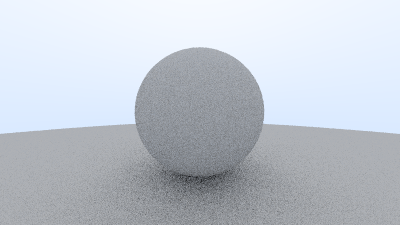
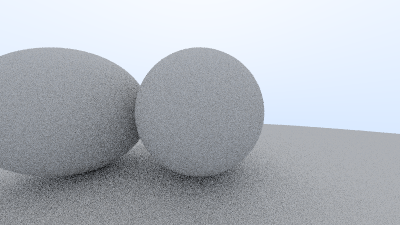
Change Ray -> ray

diff --git a/raytracer/src/main.rs b/raytracer/src/main.rs
@@ -12,7 +12,7 @@ use shape::*;
 use camera::*;
 use sample::*;
 
-pub fn ray_color(r:Ray, objects:&ShapeList<Sphere>, depth:u32) -> vec3 {
+pub fn ray_color(r:ray, objects:&ShapeList<Sphere>, depth:u32) -> vec3 {
     let mut i:hit = hit::default();
     let t_min = 0.001f64;
     let t_max = f64::MAX;
@@ -23,7 +23,7 @@ pub fn ray_color(r:Ray, objects:&ShapeList<Sphere>, depth:u32) -> vec3 {
 
     if objects.hit(&r, t_min, t_max, &mut i) { 
         let target:vec3 = i.pos + i.norm + random_unit_sphere().normalize();
-        return ray_color(Ray{o:i.pos, dir:target-i.pos}, objects, depth-1)*0.5;
+        return ray_color(ray{o:i.pos, dir:target-i.pos}, objects, depth-1)*0.5;
     }
 
     let unit_direction = r.dir.normalize();
@@ -38,7 +38,7 @@ pub fn write_color(pixel_color:vec3, sample_count:i64) -> vec3 {
     let g = (pixel_color.y * scale).sqrt();
     let b = (pixel_color.z * scale).sqrt();
 
-    return vec3((clamp(r, 0.0, 1.0)*256f64), (clamp(g, 0.0, 1.0)*256f64), (clamp(b, 0.0, 1.0)*256f64));
+    return vec3(clamp(r, 0.0, 1.0)*256f64, clamp(g, 0.0, 1.0)*256f64, clamp(b, 0.0, 1.0)*256f64);
 }
 
 
@@ -49,7 +49,7 @@ fn main() {
     let imgx = 400;
     let imgy = (imgx as f64/ASPECT) as u32;
     let sample_count = 16;
-    const max_depth:u32 = 50;
+    const MAX_DEPTH:u32 = 50;
 
     // Create a new ImgBuf with width: imgx and height: imgy
     let mut imgbuf = image::ImageBuffer::new(imgx, imgy);
@@ -57,6 +57,7 @@ fn main() {
     // World
     let mut world : ShapeList<Sphere> = ShapeList::new();
     world.push( Sphere{center:vec3(0f64, 0f64, -1f64), radius:0.5f64} );
+    world.push( Sphere{center:vec3(-1.0f64, 0f64, -1f64), radius:0.5f64} );
     world.push( Sphere{center:vec3(0f64, 100.5f64, -1f64), radius:100.0f64} );
 
     // Camera
@@ -69,8 +70,8 @@ fn main() {
             for i in 0..sample_count {
                 let u  = (x as f64 + random_f64())/(imgx-1) as f64;
                 let v  = (y as f64 + random_f64())/(imgy-1) as f64;        
-                let r : Ray = cam.get_ray(u, v);
-                pixel_color += ray_color(r, &mut world, max_depth);
+                let r : ray = cam.get_ray(u, v);
+                pixel_color += ray_color(r, &mut world, MAX_DEPTH);
             }
             let rgb = write_color(pixel_color, sample_count);
             let pixel = imgbuf.get_pixel_mut(x, y);

diff --git a/raytracer/src/shape.rs b/raytracer/src/shape.rs
@@ -1,11 +1,9 @@
 use rxmath::vector::*;
-//use rxmath::matrix::*;
-/////////////////////////
 use crate::intersect::*;
-/////////////////////////
-/// 
+use crate::sample::*;
+
 pub trait Shape {
-    fn intersect( &self, r:&Ray, t_min:f64, t_max:f64, i:&mut hit ) -> bool;
+    fn intersect( &self, r:&ray, t_min:f64, t_max:f64, i:&mut hit ) -> bool;
 }
 
 pub struct ShapeList<T: Shape>{
@@ -18,7 +16,7 @@ pub struct Sphere {
 }
 
 impl Shape for Sphere {
-    fn intersect( &self, r:&Ray, t_min:f64, t_max:f64, h:&mut hit ) -> bool {
+    fn intersect( &self, r:&ray, t_min:f64, t_max:f64, h:&mut hit ) -> bool {
         // the simplified version
         let oc:vec3 = r.o - self.center;
         let a = r.dir.length2();
@@ -54,7 +52,7 @@ impl<T: Shape> ShapeList<T> {
     pub fn push(&mut self, shape:T) {
         self.list.push(shape)
     }
-    pub fn hit(&self, r:&Ray, t_min:f64, t_max:f64, h:&mut hit) -> bool {
+    pub fn hit(&self, r:&ray, t_min:f64, t_max:f64, h:&mut hit) -> bool {
         let mut i = hit::default();
         let mut hit = false;
         let mut closest = t_max;
@@ -68,5 +66,50 @@ impl<T: Shape> ShapeList<T> {
             }
         }
         return hit;
+    }
+}
+
+/// material
+/// 
+
+pub trait material {
+    fn scatter( &self, r:&ray, h:&hit, attenuation:&mut vec3, scattered:&mut ray) -> bool;
+}
+
+pub struct lambertian {
+    albedo:vec3,
+}
+
+pub struct metal {
+    albedo:vec3,
+}
+
+impl material for lambertian{
+    fn scatter( &self, r:&ray, h:&hit, attenuation:&mut vec3, scattered:&mut ray) -> bool{
+        let mut scatter_direction = h.norm + random_unit_sphere();
+        let temp = ray{o:h.pos, dir:scatter_direction};
+
+        if scatter_direction.near_zero() {
+            scatter_direction = h.norm;
+        }
+
+        *scattered = temp;
+        *attenuation = self.albedo;
+        return true;
+    }
+}
+
+impl material for metal {
+    fn scatter( &self, r:&ray, h:&hit, attenuation:&mut vec3, scattered:&mut ray) -> bool{
+        let mut scatter_direction = h.norm + random_unit_sphere();
+        let temp = ray{o:h.pos, dir:scatter_direction};
+
+        if scatter_direction.near_zero() {
+            scatter_direction = h.norm;
+        }
+
+        *scattered = temp;
+        *attenuation = self.albedo;
+        return true;
     }
 }

diff --git a/raytracer/src/intersect.rs b/raytracer/src/intersect.rs
@@ -2,12 +2,12 @@ use rxmath::vector::*;
 //use rxmath::matrix::*;
 
 #[derive(Default, Copy, Clone)]
-pub struct Ray {
+pub struct ray {
     pub o : vec3,
     pub dir : vec3,
 }
 
-impl Ray {
+impl ray {
     pub fn at(self, t:f64) -> vec3 {
         return self.o + self.dir*t;
     } 
@@ -23,14 +23,14 @@ pub struct hit {
 }
 
 #[allow(dead_code)]
-impl Ray {
-    fn new(_o:vec3, _d:vec3) -> Ray {
-        Ray{ o:_o, dir:_d }
+impl ray {
+    fn new(_o:vec3, _d:vec3) -> ray {
+        ray{ o:_o, dir:_d }
     }
 }
 
 impl hit {
-    #[inline] pub fn set_face_normal(&mut self, r: &Ray, on:vec3) {
+    #[inline] pub fn set_face_normal(&mut self, r: &ray, on:vec3) {
         if dot(r.dir, on) > 0.0 {
             self.norm = - on;
             self.front = false;

diff --git a/raytracer/src/camera.rs b/raytracer/src/camera.rs
@@ -24,7 +24,7 @@ impl Camera {
         Camera{ origin:_origin, horizontal:_horizontal, vertical:_vertical, lower_left_corner:_lower_left_corner, }
     }
 
-    pub fn get_ray(self, u:f64, v:f64) -> Ray{
-        return Ray{o:self.origin, dir:(self.lower_left_corner+self.horizontal*u+self.vertical*v-self.origin)}
+    pub fn get_ray(self, u:f64, v:f64) -> ray{
+        return ray{o:self.origin, dir:(self.lower_left_corner+self.horizontal*u+self.vertical*v-self.origin)}
     }
 }

diff --git a/raytracer/src/sample.rs b/raytracer/src/sample.rs
@@ -29,6 +29,6 @@ pub fn random_range_f64(x:f64, y:f64) -> f64 {
     return sampled;
 }
 pub fn random_unit_sphere() -> vec3 {
-    let mut p = vec3(random_range_f64(-1f64, 1f64), random_range_f64(-1f64, 1f64), random_range_f64(-1f64, 1f64));
+    let p = vec3(random_range_f64(-1f64, 1f64), random_range_f64(-1f64, 1f64), random_range_f64(-1f64, 1f64));
     return p;
 }
